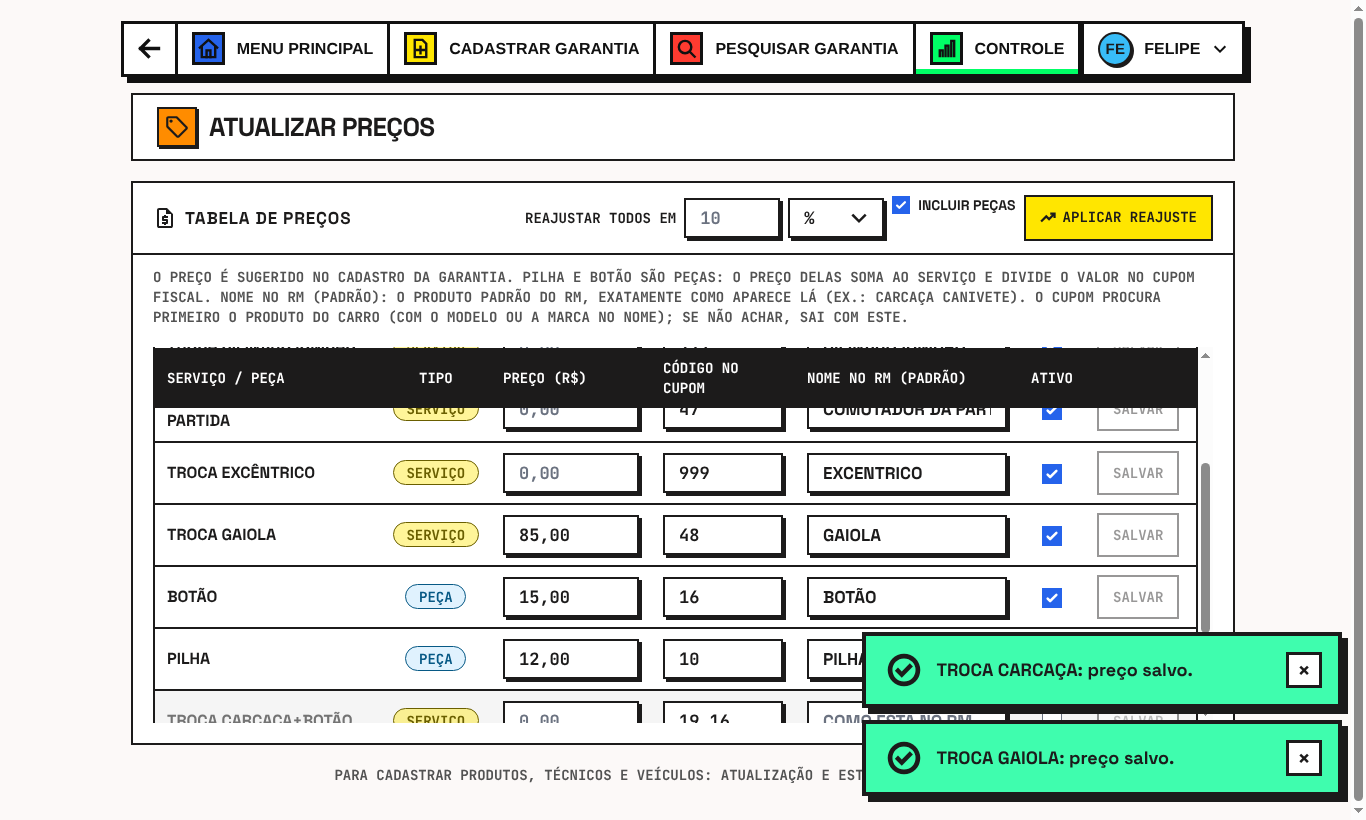
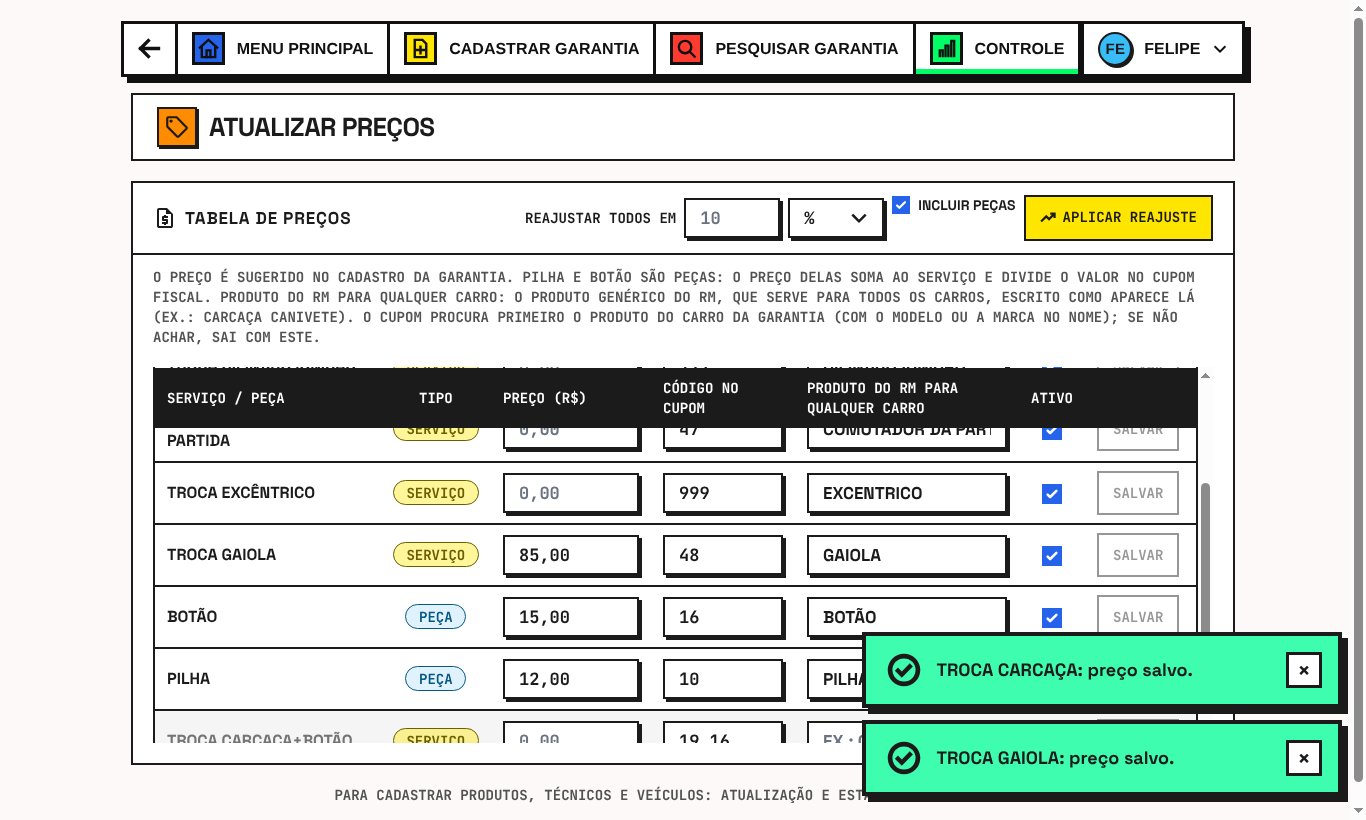
feat: NOME NO RM vira PRODUTO DO RM PARA QUALQUER CARRO (o generico, usado quando nao acha o do carro)
Claude-Session: https://claude.ai/code/session_01NUq2fGscdhbEodN3JA1uYc

Changed region(s): [[0.0922, 0.3354, 0.8917, 0.9756], [0.9839, 0.9451, 1.0, 0.9756]]

diff --git a/frontend/html/atualizar-precos.html b/frontend/html/atualizar-precos.html
@@ -24,10 +24,10 @@
 <button class="btn-acao bg-[#FFE600]" id="btnReajustar" type="button"><span class="material-symbols-outlined text-base font-bold">trending_up</span>APLICAR REAJUSTE</button>
 </div>
 </div>
-<p class="px-4 sm:px-5 pt-3 font-mono text-xs font-bold uppercase text-neutral-600">O preço é sugerido no cadastro da garantia. PILHA e BOTÃO são peças: o preço delas soma ao serviço e divide o valor no cupom fiscal. NOME NO RM (PADRÃO): o produto padrão do RM, exatamente como aparece lá (ex.: CARCAÇA CANIVETE). O cupom procura primeiro o produto do CARRO (com o modelo ou a marca no nome); se não achar, sai com este.</p>
+<p class="px-4 sm:px-5 pt-3 font-mono text-xs font-bold uppercase text-neutral-600">O preço é sugerido no cadastro da garantia. PILHA e BOTÃO são peças: o preço delas soma ao serviço e divide o valor no cupom fiscal. PRODUTO DO RM PARA QUALQUER CARRO: o produto genérico do RM, que serve para todos os carros, escrito como aparece lá (ex.: CARCAÇA CANIVETE). O cupom procura primeiro o produto do CARRO da garantia (com o modelo ou a marca no nome); se não achar, sai com este.</p>
 <div class="overflow-x-auto p-4 sm:p-5 pt-3">
 <table class="w-full text-left border-collapse border-2 border-[#1c1b1b]" id="tabelaPrecos">
-<thead><tr class="bg-[#1c1b1b] text-white font-mono text-xs uppercase"><th class="py-2.5 px-3">Serviço / peça</th><th class="py-2.5 px-3 text-center">Tipo</th><th class="py-2.5 px-3 w-40">Preço (R$)</th><th class="py-2.5 px-3 w-36">Código no cupom</th><th class="py-2.5 px-3 w-56">Nome no RM (padrão)</th><th class="py-2.5 px-3 text-center">Ativo</th><th class="py-2.5 px-3 w-28"></th></tr></thead>
+<thead><tr class="bg-[#1c1b1b] text-white font-mono text-xs uppercase"><th class="py-2.5 px-3">Serviço / peça</th><th class="py-2.5 px-3 text-center">Tipo</th><th class="py-2.5 px-3 w-40">Preço (R$)</th><th class="py-2.5 px-3 w-36">Código no cupom</th><th class="py-2.5 px-3 w-56">Produto do RM para qualquer carro</th><th class="py-2.5 px-3 text-center">Ativo</th><th class="py-2.5 px-3 w-28"></th></tr></thead>
 <tbody class="divide-y-2 divide-[#1c1b1b] text-sm font-bold" id="corpoPrecos"></tbody>
 </table>
 </div>

diff --git a/frontend/ts/telas/todos-cadastro.ts b/frontend/ts/telas/todos-cadastro.ts
@@ -127,7 +127,7 @@ const PRODUTOS: Config<ServicoDados> = {
     { titulo: "TIPO", classe: "text-center", valor: (s) => (s.peca ? selo("Peça", "bg-[#e0f2fe] text-[#075985]") : selo("Serviço", "bg-[#FFE600]/40 text-[#6a5f00]")) },
     { titulo: "PREÇO", classe: "text-right font-mono whitespace-nowrap", valor: (s) => formatarMoedaBR(Math.round(s.preco * 100)) },
     { titulo: "CÓDIGO NO CUPOM", classe: "font-mono", valor: (s) => s.codigoCupom ?? "—" },
-    { titulo: "NOME NO RM (PADRÃO)", valor: (s) => s.nomeRm ?? "—" },
+    { titulo: "PRODUTO DO RM P/ QUALQUER CARRO", valor: (s) => s.nomeRm ?? "—" },
     { titulo: "SITUAÇÃO", classe: "text-center", valor: (s) => seloAtivo(s.ativo) },
   ],
   pesquisa: (s) => [s.nome, s.codigoCupom, s.nomeRm ?? null],
@@ -136,7 +136,7 @@ const PRODUTOS: Config<ServicoDados> = {
     { valor: "nome", rotulo: "Nome" },
     { valor: "preco", rotulo: "Preço (R$)", mascara: "moeda" },
     { valor: "codigoCupom", rotulo: "Código no cupom" },
-    { valor: "nomeRm", rotulo: "Nome no RM (padrão)" },
+    { valor: "nomeRm", rotulo: "Produto do RM para qualquer carro" },
   ],
   valorCampo: (s, campo) =>
     campo === "preco" ? formatarMoedaBR(Math.round(s.preco * 100)).replace("R$ ", "") : campo === "codigoCupom" ? s.codigoCupom ?? "" : campo === "nomeRm" ? s.nomeRm ?? "" : s.nome,

diff --git a/desktop/smoke.js b/desktop/smoke.js
@@ -385,7 +385,7 @@ async function executar() {
   // todos os produtos: palavra do cupom no RM + so 5 linhas, depois EXPANDIR TABELA
   await ir("todos-produtos");
   await esperarPredicado("Number(document.body.dataset.registros) > 0", 8000);
-  teste("Todos os produtos: colunas CÓDIGO NO CUPOM e NOME NO RM (PADRÃO)", await js("(() => { const th = [...document.querySelectorAll('#tabela thead th')].map(t => t.textContent); return th.includes('CÓDIGO NO CUPOM') && th.includes('NOME NO RM (PADRÃO)'); })()"));
+  teste("Todos os produtos: colunas CÓDIGO NO CUPOM e PRODUTO DO RM P/ QUALQUER CARRO", await js("(() => { const th = [...document.querySelectorAll('#tabela thead th')].map(t => t.textContent); return th.includes('CÓDIGO NO CUPOM') && th.includes('PRODUTO DO RM P/ QUALQUER CARRO'); })()"));
   await esperar(300);
   teste("Todos os produtos: altura de 5 linhas e rolagem por dentro (sem EXPANDIR)", await js(`(() => { const caixa = document.querySelector('#tableBody').closest('.tabela-rolagem');
     return !!caixa && caixa.scrollHeight > caixa.clientHeight && !document.querySelector('[data-expandir-tabela]'); })()`));

diff --git a/frontend/ts/telas/atualizar-precos.ts b/frontend/ts/telas/atualizar-precos.ts
@@ -71,9 +71,9 @@ function linhaServico(s: ServicoDados): HTMLTableRowElement {
   const nomeRm = document.createElement("input");
   nomeRm.className = "entrada-form !py-1.5 uppercase";
   nomeRm.maxLength = 120;
-  nomeRm.placeholder = "COMO ESTÁ NO RM";
+  nomeRm.placeholder = "O GENÉRICO, COMO ESTÁ NO RM";
   nomeRm.value = s.nomeRm ?? "";
-  nomeRm.setAttribute("aria-label", `Nome no RM de ${s.nome}`);
+  nomeRm.setAttribute("aria-label", `Produto do RM para qualquer carro de ${s.nome}`);
   nomeRmTd.appendChild(nomeRm);
   const ativoTd = document.createElement("td");
   ativoTd.className = "py-2 px-3 text-center";
@@ -122,7 +122,7 @@ function linhaServico(s: ServicoDados): HTMLTableRowElement {
   tipo.dataset.rotulo = "Tipo";
   precoTd.dataset.rotulo = "Preço (R$)";
   codigoTd.dataset.rotulo = "Código no cupom";
-  nomeRmTd.dataset.rotulo = "Nome no RM (padrão)";
+  nomeRmTd.dataset.rotulo = "Produto do RM para qualquer carro";
   ativoTd.dataset.rotulo = "Ativo";
   acaoTd.dataset.rotulo = "";
   tr.append(nome, tipo, precoTd, codigoTd, nomeRmTd, ativoTd, acaoTd);

diff --git a/frontend/html/form-produto.html b/frontend/html/form-produto.html
@@ -29,7 +29,7 @@
 <p class="campo-erro hidden" data-erro-campo="codigoCupom"></p>
 </div></div>
 <div class="campo-form">
-<label class="rotulo-form" for="nomeRm"><span>NOME NO RM (CUPOM FISCAL)</span><span class="dica-form">A PALAVRA COMO APARECE NA BUSCA DO RM</span></label>
+<label class="rotulo-form" for="nomeRm"><span>PRODUTO DO RM PARA QUALQUER CARRO</span><span class="dica-form">O GENÉRICO, COMO ESTÁ NO RM (EX.: CARCAÇA CANIVETE). O CUPOM USA ESTE QUANDO NÃO ACHA O PRODUTO DO CARRO</span></label>
 <input class="entrada-form uppercase" id="nomeRm" maxlength="120" placeholder="Ex.: CARCAÇA CANIVETE" type="text" autocomplete="off">
 <p class="campo-erro hidden" data-erro-campo="nomeRm"></p>
 </div>

diff --git a/desktop/teste-rm-electron.js b/desktop/teste-rm-electron.js
@@ -377,7 +377,7 @@ async function principal() {
     const g2 = await nova("80.00", [{ idServico: null, descricao: "CHAVE CODIFICADA", quantidade: 1 }]);
     rm.emitir(g2.id);
     teste("produto sem nome no RM: pop-up FAÇA O CUPOM NO RM",
-      await ate(() => avisos.some((a) => a.titulo === "FAÇA O CUPOM NO RM" && /NOME NO RM/.test(a.mensagem)), 10000),
+      await ate(() => avisos.some((a) => a.titulo === "FAÇA O CUPOM NO RM" && /QUALQUER CARRO/.test(a.mensagem)), 10000),
       JSON.stringify(avisos));
 
     // 6) RM fora do ar: tenta, reconecta, tenta de novo e pede o cupom manual

diff --git a/desktop/rm-cupom.js b/desktop/rm-cupom.js
@@ -61,7 +61,7 @@ async function acharProduto(chamar, contexto, nomeRm) {
     if (iguais.length === 1) return iguais[0];
     if (iguais.length > 1) throw new ErroDefinitivo(`há ${iguais.length} produtos "${nomeRm}" no RM`);
   }
-  throw new ErroDefinitivo(`o produto "${nomeRm}" não foi encontrado no RM (confira o NOME NO RM em ATUALIZAR PREÇOS)`);
+  throw new ErroDefinitivo(`o produto "${nomeRm}" não foi encontrado no RM (confira o PRODUTO DO RM PARA QUALQUER CARRO em ATUALIZAR PREÇOS)`);
 }
 
 // ---------- produto do CARRO (pedido do usuario, 2026-11-25) ----------

diff --git a/frontend/ts/main.ts b/frontend/ts/main.ts
@@ -23,7 +23,7 @@ ligarDicas({
   "GRÁFICOS": "Gráficos das garantias",
   "TÉCNICOS": "Técnicos: cadastrar e ver os técnicos",
   "VEÍCULOS": "Veículos: cadastrar e ver as marcas e modelos",
-  "TABELA DE VALORES": "Tabela de valores: produtos, preços e nome no RM",
+  "TABELA DE VALORES": "Tabela de valores: produtos, preços e produto do RM",
   "MENU PRINCIPAL": "Voltar para o Menu Principal",
   VOLTAR: "Voltar para a tela anterior",
   APLICAR: "Salvar a alteração deste campo",

diff --git a/backend/src/main/java/com/chaveiro/service/CupomService.java b/backend/src/main/java/com/chaveiro/service/CupomService.java
@@ -103,7 +103,7 @@ public class CupomService {
         }
         for (LinhaCupom l : linhas) {
             if (l.nomeRm() == null || l.nomeRm().isBlank()) {
-                throw erro("O produto " + l.descricao() + " está sem o NOME NO RM. Preencha em ATUALIZAR PREÇOS.");
+                throw erro("O produto " + l.descricao() + " está sem o PRODUTO DO RM PARA QUALQUER CARRO. Preencha em ATUALIZAR PREÇOS.");
             }
         }
         if (totalCentavos <= 0) {

diff --git a/backend/src/test/java/com/chaveiro/service/CupomServiceTest.java b/backend/src/test/java/com/chaveiro/service/CupomServiceTest.java
@@ -110,7 +110,7 @@ class CupomServiceTest {
         assertThatThrownBy(() -> cupons.pedido(g.id()))
                 .isInstanceOf(DadosInvalidosException.class)
                 .satisfies(e -> assertThat(((DadosInvalidosException) e).getCampos().get("cupom"))
-                        .contains("CHAVE CODIFICADA").contains("NOME NO RM"));
+                        .contains("CHAVE CODIFICADA").contains("QUALQUER CARRO"));
     }
 
     @Test

diff --git a/docs/decisoes.md b/docs/decisoes.md
@@ -241,3 +241,6 @@ Registro das decisões de negócio e de arquitetura do Sistema de Garantias. Mai
 - Pedido do usuário: os produtos do RM têm o carro no nome ("CHAVE CANIVETE SECA VW GOL G5 G6", "CANIVETE CHEVROLET CRUZE E ONIX 3 BOTÕES..."), todos com o mesmo NCM (8301.70.00). O cupom deve sair com o do carro, sem correlação manual e SEM mudar nada na tela ("os meninos vão se embananar").
 - `/api/garantias/{id}/cupom-rm` passa a mandar `marca` e `modelo` (marca pelo veículo escolhido ou pela lista de veículos: ONIX → CHEVROLET) e `peca` em cada item.
 - `desktop/rm-cupom.js` (`acharProdutoDoCarro`/`escolherDoCarro`): busca no RM pela marca (e apelidos: VW, GM...) e pelo modelo; candidato precisa ter uma palavra do NOME NO RM (CARCAÇA/CANIVETE...) e a marca ou o modelo. Ordem: com o MODELO no nome > só a MARCA > (nada) NOME NO RM de sempre. Empate = o primeiro que o RM mostrar. Palavra inteira (GOL não pega GOLF). Botões/oca/seca não importam. Peças (PILHA, BOTÃO) não mudam. Valor e emissão iguais.
+
+## 2026-11-25 — "NOME NO RM" passa a se chamar "PRODUTO DO RM PARA QUALQUER CARRO"
+- Pedido do usuário: nome que diga para que serve. É o produto genérico do RM (ex.: CARCAÇA CANIVETE), usado quando o cupom não acha o produto do carro da garantia. Telas (Atualizar preços, Todos os produtos, Cadastrar produto) e mensagens do cupom usam o nome novo; a coluna no banco continua `nome_rm`.
